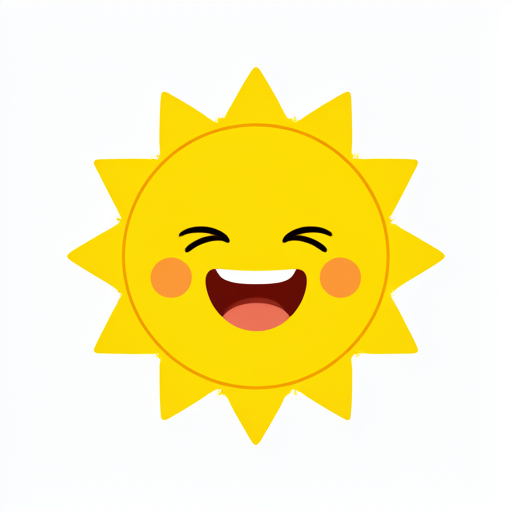
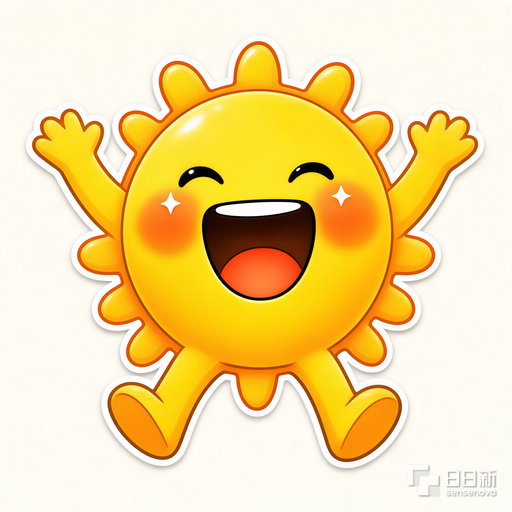
chore: switch local generation tests to SenseNova

diff --git a/projects/我的第一个产品/backend/app/web/test_console.html b/projects/我的第一个产品/backend/app/web/test_console.html
@@ -149,6 +149,11 @@
           <button class="secondary" id="publish-template" type="button">发布模板</button>
         </div>
       </details>
+      <details class="admin-flow">
+        <summary>后台模型配置：保留其他模型，不进入普通用户列表</summary>
+        <div class="verify-actions"><button class="secondary" id="refresh-model-config" type="button">查看模型配置</button></div>
+        <div class="public-list" id="model-config-list">需要运营或管理员权限。</div>
+      </details>
       <pre class="verify-log" id="verify-log">点击上面的按钮开始验收。</pre>
       <div class="generation-flow">
         <div class="panel-title"><h2>V7 用户生成闭环</h2><span>模板 + 提示词 + 尺寸 + 模型</span></div>
@@ -258,6 +263,13 @@
     async function publishTemplate() {
       try { const payload = await verifyRequest(`/api/v1/admin/templates/${encodeURIComponent($("admin-template-id").value)}/publish`, { method: "POST" }); logVerify(`模板发布完成：${payload.status}`); refreshPublic(); } catch (err) { logVerify(`发布失败：${err.message}`); }
     }
+    async function refreshModelConfig() {
+      try {
+        const payload = await verifyRequest("/api/v1/admin/models");
+        $("model-config-list").textContent = payload.items.map((item) => `${item.name} · ${item.model_id} · ${item.enabled ? "已启用" : "配置保留/未启用"}${item.is_default ? " · 默认" : ""}`).join("\n") || "暂无模型配置";
+        logVerify(`后台模型配置读取成功：${payload.items.length} 个（普通用户只看到已启用模型）。`);
+      } catch (err) { logVerify(`后台模型配置读取失败：${err.message}`); }
+    }
     async function loadV7Options() {
       try {
         const [templates, models] = await Promise.all([verifyRequest("/api/v1/templates"), verifyRequest("/api/v1/models")]);
@@ -294,6 +306,7 @@
     $("import-template").addEventListener("click", importTemplate);
     $("review-template").addEventListener("click", reviewTemplate);
     $("publish-template").addEventListener("click", publishTemplate);
+    $("refresh-model-config").addEventListener("click", refreshModelConfig);
 
     function setStep(id, state) {
       const node = $(id);

diff --git a/projects/我的第一个产品/backend/app/main.py b/projects/我的第一个产品/backend/app/main.py
@@ -212,6 +212,11 @@ def _seed_legacy_templates(session_factory, library_path: Path) -> None:
 def _seed_default_model(session_factory, settings: Settings) -> None:
     session = session_factory()
     try:
+        existing_rows = list(session.scalars(select(ModelConfigRecord)))
+        # Importing the module in tests uses the safe mock default. Never let
+        # that implicit default overwrite an already configured real provider.
+        if settings.provider_mode == "mock" and existing_rows:
+            return
         if settings.provider_mode == "qwen":
             model_id, name, provider = settings.qwen_model, "千问图片生成", "qwen"
         elif settings.provider_mode == "sensenova":
@@ -233,7 +238,7 @@ def _seed_default_model(session_factory, settings: Settings) -> None:
                 cost_cents_per_call=0,
             )
             session.add(row)
-        for existing in session.scalars(select(ModelConfigRecord)):
+        for existing in existing_rows:
             existing.is_default = existing.model_id == model_id
             if existing.model_id != model_id and existing.provider in {"mock", "qwen", "sensenova"}:
                 existing.enabled = False
@@ -451,6 +456,11 @@ def create_app(
         rows = list(session.scalars(select(ModelConfigRecord).where(ModelConfigRecord.enabled.is_(True)).order_by(ModelConfigRecord.priority, ModelConfigRecord.created_at)))
         if module:
             rows = [row for row in rows if not json.loads(row.module_bindings_json or "[]") or module in json.loads(row.module_bindings_json or "[]")]
+        return {"items": [ModelOut.model_validate(_model_payload(row)) for row in rows]}
+
+    @app.get("/api/v1/admin/models", response_model=ModelListOut)
+    def admin_models(user: UserRecord = Depends(require_operator), session: Session = Depends(db)):
+        rows = list(session.scalars(select(ModelConfigRecord).order_by(ModelConfigRecord.priority, ModelConfigRecord.created_at)))
         return {"items": [ModelOut.model_validate(_model_payload(row)) for row in rows]}
 
     @app.post("/api/v1/generations", response_model=GenerationOut, status_code=201)

diff --git a/projects/我的第一个产品/docs/项目状态.md b/projects/我的第一个产品/docs/项目状态.md
@@ -11,7 +11,7 @@
 | D1 | 目标用户与核心任务 | 已定（V7） | 面向公众开放注册的普通用户，通过已发布模板、提示词、尺寸和模型生成表情包、手机壁纸或电脑壁纸；运营和管理员在独立后台维护模板与模型 | V7 第1、2、3节；阶段0确认 |
 | D2 | 什么算生成得好（验收标准） | 已定（V7硬指标，效果细节待样例打分） | 生图成功率≥95%、平均生成时间≤2分钟、P95≤5分钟、10人并发不崩溃；模板符合度和图像瑕疵在真实样例中补充人工口径 | V7 第8节 |
 | D3 | 瑕疵容忍度 | 待定 | 阶段2用真实样例确认模板符合度、人物相似度和文字瑕疵的可接受范围 | PRD 第5节缺少样例口径 |
-| D4 | 模型厂商与成本上限 | 已定（阶段2执行） | 单次任务成本上限1元；当前接入阿里云百炼 DashScope 的 `qwen-image-2.1-turbo`；保留供应商无关适配层，商汤适配仍保留 | PRD 第2、6节；本轮确认；阶段2-1真实冒烟 |
+| D4 | 模型厂商与成本上限 | 已定（阶段2执行） | 单次任务成本上限1元；当前本地测试使用商汤 `sensenova-u1.5-lite`；千问等其他模型保留在后台配置；保留供应商无关适配层 | PRD 第2、6节；本轮确认；阶段2-2真实冒烟 |
 | D5 | 登录方式 | 已定（V7） | 普通用户使用邮箱验证码登录，开发期固定测试码，正式阶段再接第三方邮件服务；会话采用 HttpOnly Cookie；后台使用固定邮箱白名单 | V7 FR1、角色权限；阶段0确认 |
 | D6 | 数据留存规则 | 已定 | 原图交付完成即删除，成品暂存7天；日志只保留任务ID、哈希、状态和错误摘要 | 本轮确认 |
 | D7 | 隐私边界 | 已定 | 人物照片仅用于本次任务，不进模板库、训练集、案例展示或公开分享；第三方生成 API 外发前需明确告知并获授权 | 方案权限边界；本轮确认 |
@@ -64,3 +64,4 @@
 - 2026-11-11：阶段2-1完成 V7 账户/会话/角色、模板候选审核发布状态、模板版本和模型基础表；保留旧上传任务接口兼容；新增邮箱验证码与模板管理接口及测试，等待验收。
 - 2026-11-11：按产品经理新选择切换真实生图供应商为阿里云百炼 DashScope `qwen-image-2.1-turbo`；新增原生多模态适配，旧商汤适配保留；真实模型连通性冒烟通过。
 - 2026-11-12：阶段2-2完成 V7 用户生成主链路、额度/积分状态、幂等和用户隔离；真实 Qwen 生成、PNG 下载和跨用户 404 冒烟通过，等待产品经理验收。
+- 2026-11-12：按产品经理要求切换本地测试默认模型为商汤 `sensenova-u1.5-lite`；真实生成、下载和跨用户 404 重新冒烟通过；千问配置保留在后台模型配置列表。

diff --git a/projects/我的第一个产品/docs/阶段文档/阶段2-2技术开发文档.md b/projects/我的第一个产品/docs/阶段文档/阶段2-2技术开发文档.md
@@ -12,12 +12,12 @@ PRD：V7
 ## 2. 本阶段交付
 
 - 新增 `generations` 持久化记录，保存模板版本、提示词快照、模块、尺寸、模型、状态、成本、额度使用和失败返还状态。
-- 新增 `GET /api/v1/models`，只返回已启用且可用于用户生成的模型；启动时按本地配置确保 `qwen-image-2.1-turbo` 为默认模型。
+- 新增 `GET /api/v1/models`，只返回已启用且可用于用户生成的模型；当前本地测试按配置确保 `sensenova-u1.5-lite` 为默认模型。
 - 新增 `POST /api/v1/generations`、查询列表/详情和结果下载接口；接口要求邮箱会话，模板必须是 `published`。
 - 支持常用比例和 256–4096 px 的自定义宽高；比例必须在 0.25–4.0 范围内。
 - 每个用户每天 3 次免费生成；免费额度用尽后仅在积分足够时扣 1 积分。扣减、生成成功、失败返还和审计均写入持久化记录。
 - 使用请求幂等键避免重复调用模型；其他用户读取生成记录和结果统一返回 404。
-- Qwen-Image、SenseNova 和 mock Provider 统一支持用户提示词；真实链路使用阿里云百炼 DashScope 的 `qwen-image-2.1-turbo`。
+- Qwen-Image、SenseNova 和 mock Provider 统一支持用户提示词；当前真实链路使用商汤 `sensenova-u1.5-lite`，其他模型配置保留在后台只读配置列表。
 - `/test` 增加 V7 点击式验收区，产品经理不需要填写 API：登录、选模板、写提示词、选尺寸、生成并查看结果。
 
 ## 3. 主要接口
@@ -44,7 +44,7 @@ PRD：V7
 ## 5. 验证结果
 
 - mock 自动化测试：26 条通过。
-- 真实 Qwen 端到端：登录、读取已发布模板、提交文字提示词和 512×512 自定义尺寸、真实生成、PNG 下载、跨用户 404 均通过。
+- 真实商汤端到端：登录、读取已发布模板、提交文字提示词和 512×512 自定义尺寸、真实生成、PNG 下载、跨用户 404 均通过；本次耗时约 96 秒。
 - 真实结果由 `scripts/smoke_real.py` 自动写入 `docs/evidence/阶段2-2/冒烟记录.md`，图片保存为 `真实模型结果.png`。
 
 ## 6. 启动与验收

diff --git a/projects/我的第一个产品/README.md b/projects/我的第一个产品/README.md
@@ -16,7 +16,7 @@ cd projects/我的第一个产品/backend
 - 旧版兼容测试台：<http://127.0.0.1:8000/test>
 - V7 点击式验收台：<http://127.0.0.1:8000/test>
 
-当前真实模式使用阿里云百炼 DashScope 的 `qwen-image-2.1-turbo`，由本地 `.env` 的 `GEN_PROVIDER_MODE=qwen` 启动。真实 Key 只放在本地 `.env`，不要提交到 Git。
+当前本地测试模式使用商汤 `sensenova-u1.5-lite`，由本地 `.env` 的 `GEN_PROVIDER_MODE=sensenova` 启动。千问 `qwen-image-2.1-turbo` 等其他配置保留在后台模型配置中，但不会出现在普通用户可选列表。真实 Key 只放在本地 `.env`，不要提交到 Git。
 
 ## V7 登录与角色
 
@@ -47,6 +47,7 @@ cd projects/我的第一个产品/backend
 - `POST /api/v1/generations` 创建生成任务；需要登录 Cookie。
 - `GET /api/v1/generations` 查看自己的生成记录。
 - `GET /api/v1/generations/{id}/asset` 下载自己的 PNG 结果。
+- 运营/管理员可读 `GET /api/v1/admin/models` 查看全部模型配置；未启用模型只保留在后台配置，不对普通用户开放。
 - 每个用户每天 3 次免费生成；成功记录额度使用，失败记录返还状态。
 
 ## 验证

diff --git a/projects/我的第一个产品/docs/evidence/阶段2-2/冒烟记录.md b/projects/我的第一个产品/docs/evidence/阶段2-2/冒烟记录.md
@@ -1,14 +1,14 @@
 # 阶段2-2真实模型冒烟记录
 
-- 模型：qwen-image-2.1-turbo
-- 供应商：阿里云百炼 DashScope
+- 模型：sensenova-u1.5-lite
+- 供应商：sensenova
 - 接口：`POST /api/v1/generations` → 后端模型适配层
 - 说明：验证已登录用户从已发布模板、文本提示词和自定义尺寸完成真实生图、下载和用户归属隔离；不记录完整提示词和密钥。
 
 | 时间 | 检查 | 结果 |
-| 2026-11-12 01:09:58 | `/healthz` | 200，服务可用 |
-| 2026-11-12 01:09:58 | 真实生成 | 201，`status=succeeded`，模型 `qwen-image-2.1-turbo`，耗时 `2307` ms |
-| 2026-11-12 01:09:58 | 下载结果 | 200，PNG，512×512，205836 bytes |
-| 2026-11-12 01:09:58 | 换用户读取 | 404，`NOT_FOUND` |
+| 2026-11-12 18:13:23 | `/healthz` | 200，服务可用 |
+| 2026-11-12 18:13:23 | 真实生成 | 201，`status=succeeded`，模型 `sensenova-u1.5-lite`，耗时 `204933` ms |
+| 2026-11-12 18:13:23 | 下载结果 | 200，PNG，512×512，296899 bytes |
+| 2026-11-12 18:13:23 | 换用户读取 | 404，`NOT_FOUND` |
 
-任务 ID：`d0202eb9-8d09-4167-be77-1bed9c4c5d50`
+任务 ID：`9845b3a7-d394-4d3b-94c8-1a2314c6b077`

diff --git a/projects/我的第一个产品/docs/evidence/阶段2-2/是否表.md b/projects/我的第一个产品/docs/evidence/阶段2-2/是否表.md
@@ -8,7 +8,7 @@
 | --- | --- | --- |
 | 1 | 本阶段范围内功能已实现，没有提前做下一阶段 | 是（模板+提示词+尺寸+模型+生成+下载+额度/积分记录） |
 | 2 | mock 自动化测试已运行且通过 | 是（26/26）；前端测试通过 |
-| 3 | 真实模型冒烟已运行 | 是（qwen-image-2.1-turbo，4 次，最近 2026-11-12 01:09:58） |
+| 3 | 真实模型冒烟已运行 | 是（sensenova-u1.5-lite，4 次，最近一次 2026-11-12 18:13:23） |
 | 4 | 类型检查 / Lint / 生产构建通过 | 是（verify.sh：通过） |
 | 5 | 密钥未进入代码、仓库、前端产物、打包文件 | 是（verify.sh：通过） |
 | 6 | 数据在服务重启后可恢复，已实际验证 | 是（verify.sh：通过，标记读回一致） |
@@ -19,4 +19,4 @@
 
 ## 备注
 
-当前本地真实模式为阿里云百炼 DashScope 的 `qwen-image-2.1-turbo`。用户生成结果暂不接内容审核；模板审核和后台窗口保留。
+当前本地真实模式为商汤 `sensenova-u1.5-lite`。千问等其他模型配置仍保留在后台模型配置列表；用户生成结果暂不接内容审核，模板审核和后台窗口保留。

diff --git a/projects/我的第一个产品/docs/evidence/阶段2-2/照着做清单.md b/projects/我的第一个产品/docs/evidence/阶段2-2/照着做清单.md
@@ -18,9 +18,11 @@
 1. 在“V7 用户生成闭环”里选择一个已发布模板。
 2. 在提示词框输入：`暖色天空、细腻云朵、清晨氛围，画面干净`。
 3. 输出比例先选 `1:1`；也可以改成 `9:16`，或选择“自定义尺寸”填写 512 和 768。
-4. 生图模型保持 `千问图片生成 · qwen-image-2.1-turbo`。
+4. 生图模型保持 `商汤图片生成 · sensenova-u1.5-lite`。
 5. 点击「生成图片」。
 6. 看到结果图片、尺寸、模型和“使用今日免费额度”，算主链路通过。
+
+后台模型配置：运营/管理员展开“后台模型配置”，点击「查看模型配置」；应能看到商汤已启用，千问等其他模型显示“配置保留/未启用”。普通用户点击后应被拒绝。
 
 ## 4. 验证权限隔离
 
